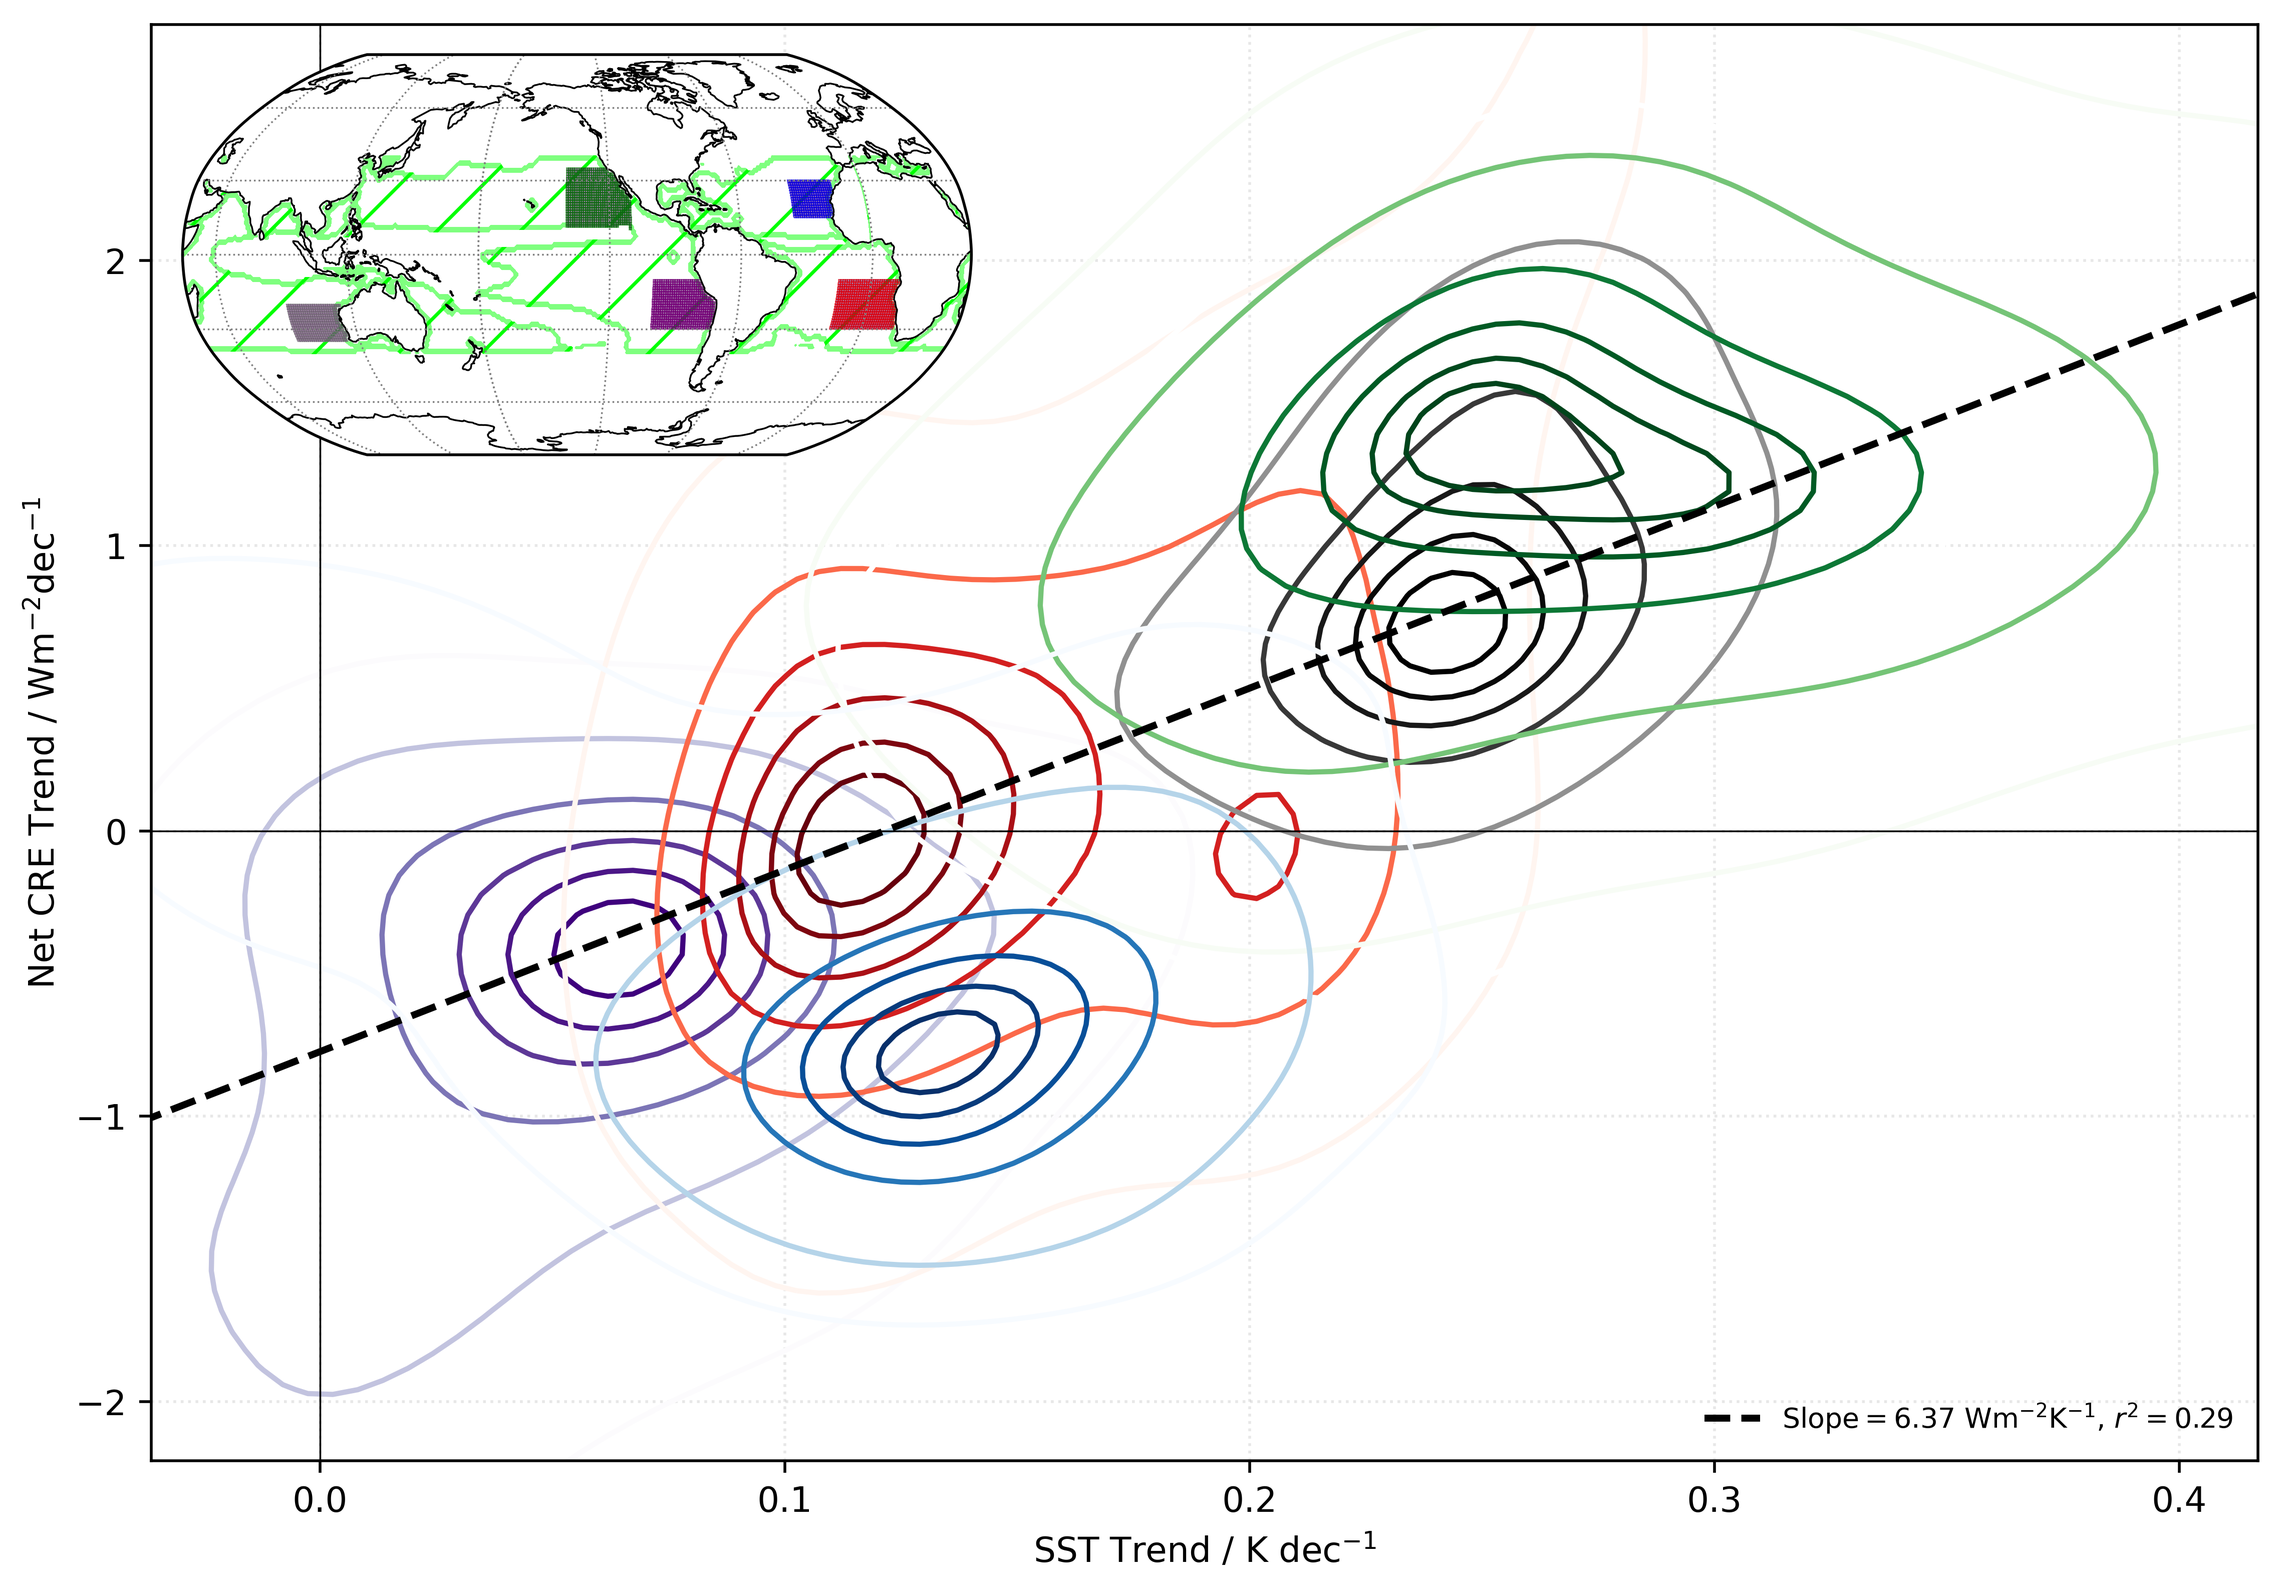
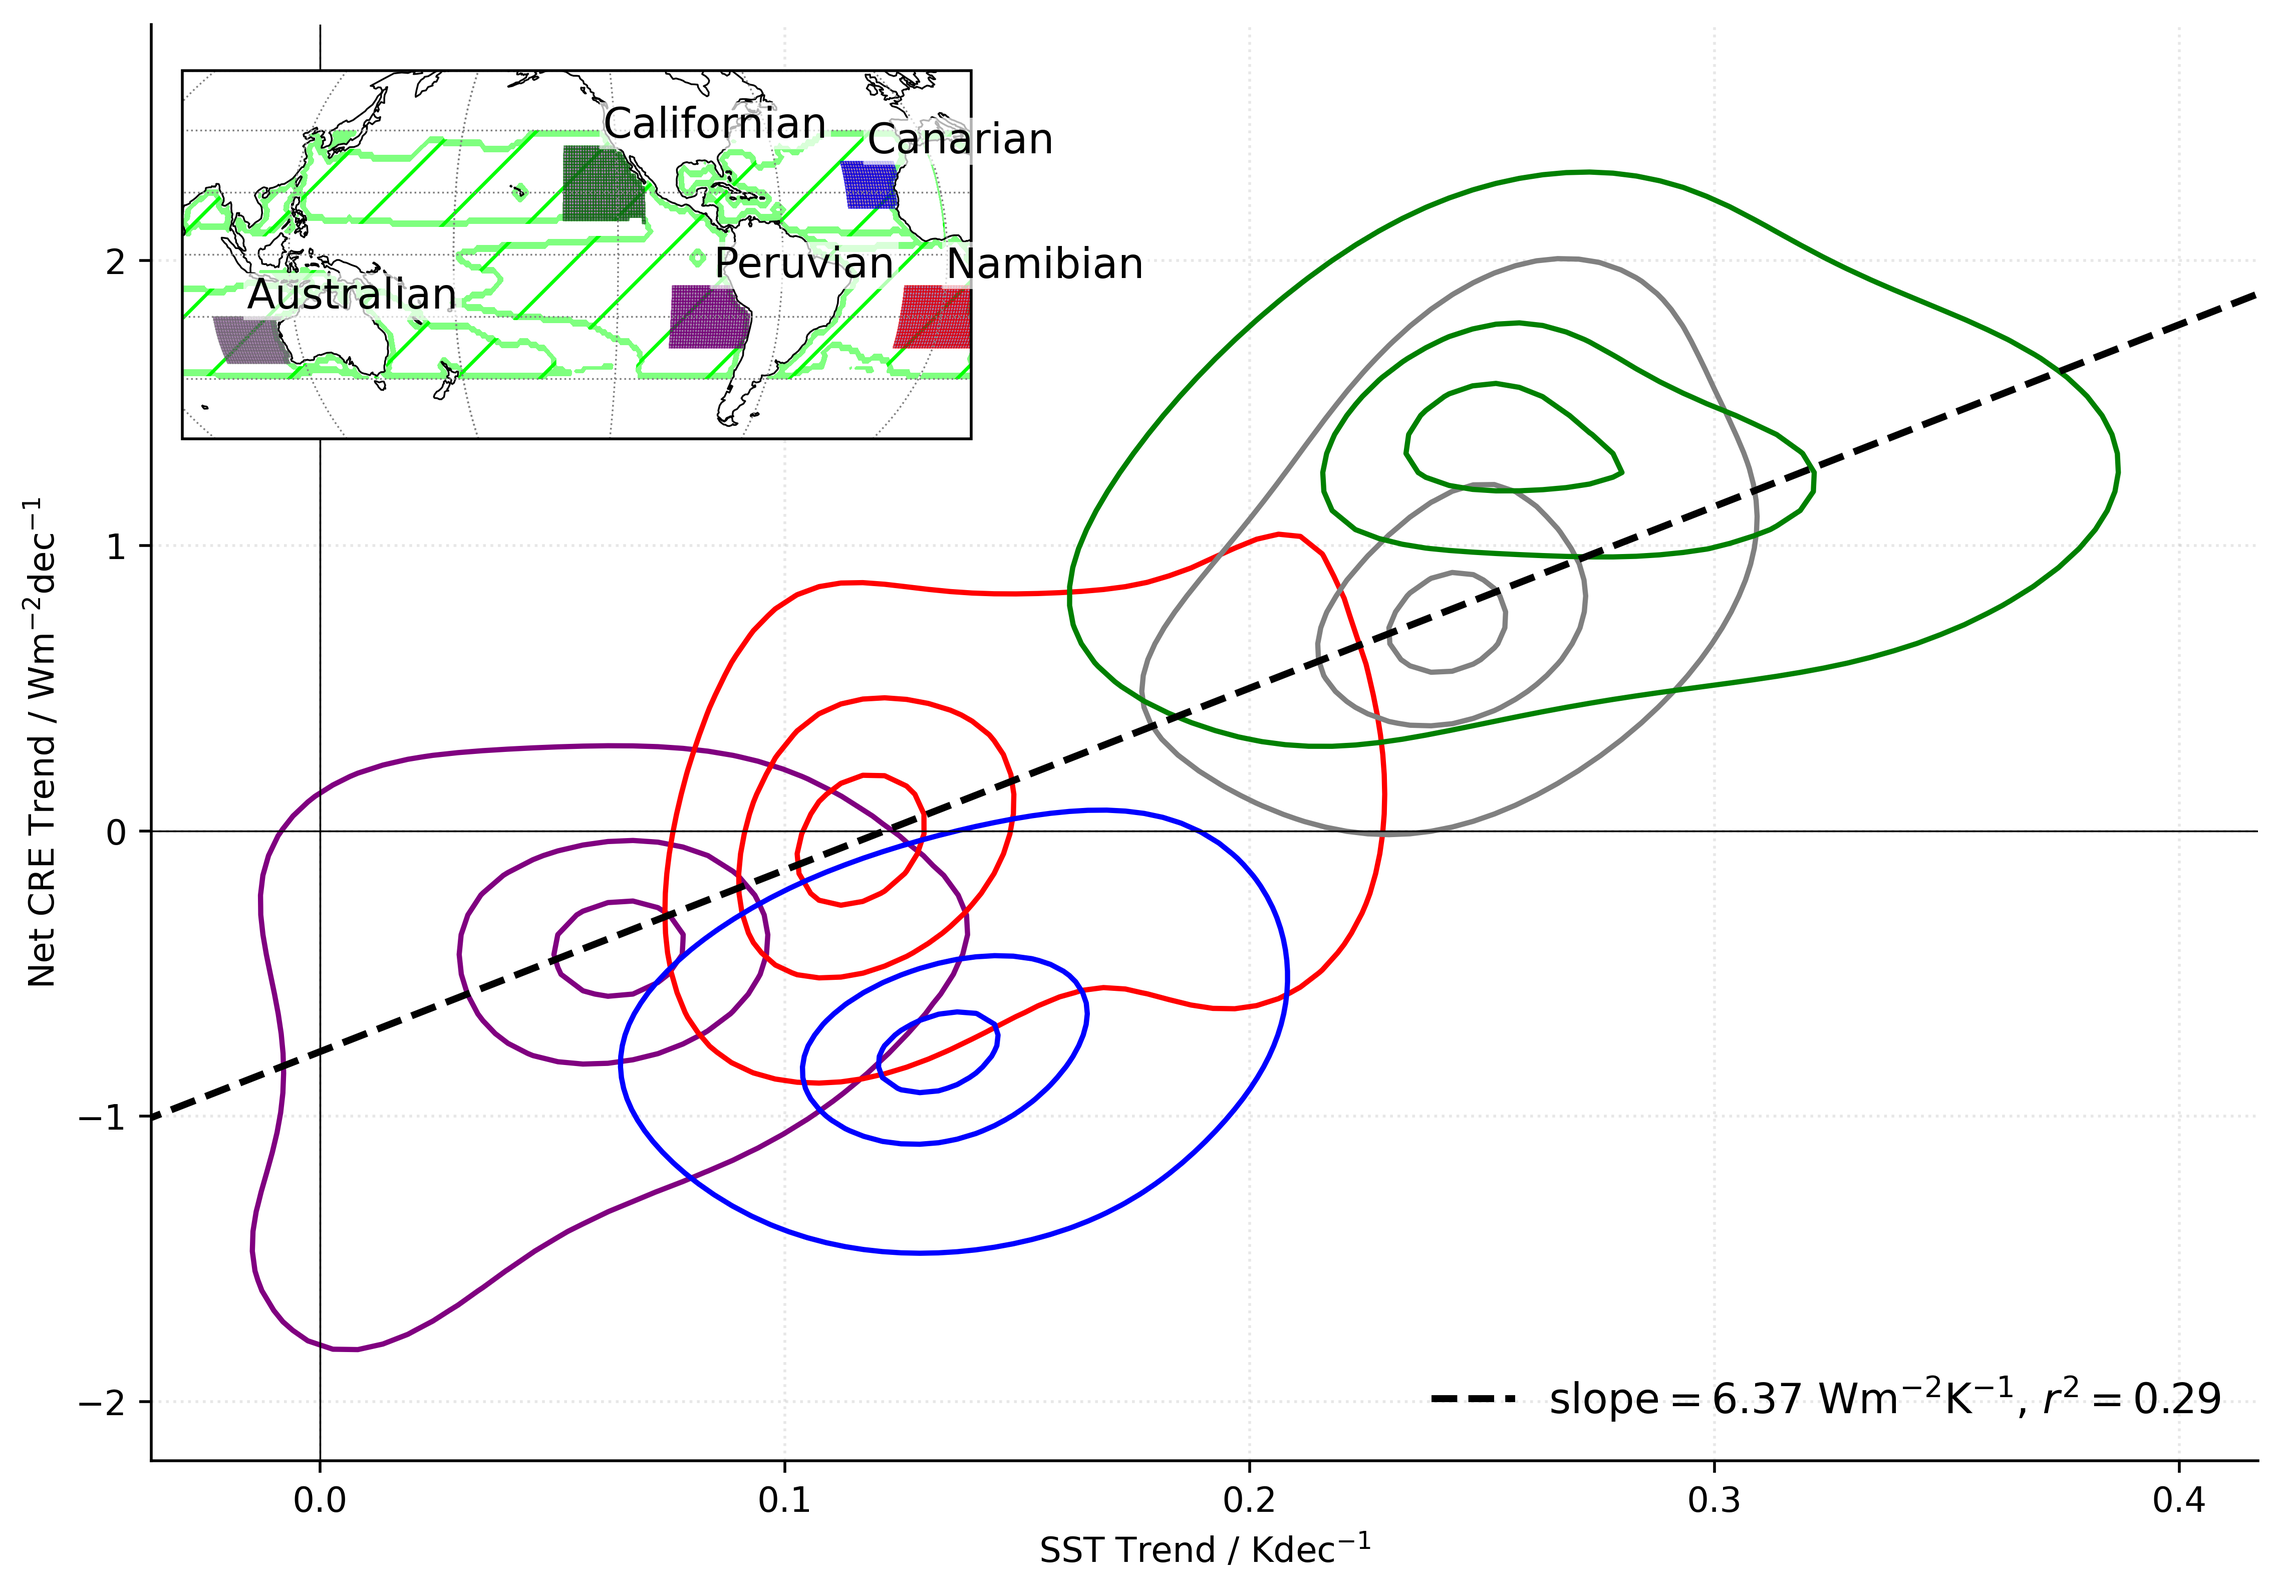
add stcu deck labels, make contours same alpha, reduce no. of contours, ...

diff --git a/make_figs/stcu.py b/make_figs/stcu.py
@@ -51,11 +51,11 @@ def regression(x, y):
 # define lat-lon boxes containing stcu decks
 stcu_deck_boxes = [
     # name, lat_min, lat_max, lon_min, lon_max, color, cmap
-    ("Peruvian deck", -30.0, -10.0, -100.0, -70.0, "purple", "Purples"),
-    ("Namibian deck", -30.0, -10.0, -15, 15, "red", "Reds"),
-    ("Australian deck", -35.0, -20.0, 90.0, 115.0, "gray", "Greys"),
-    ("Californian deck", 10.0, 35.0, -140.0, -110.0,  "green", "Greens"),
-    ("Canarian deck", 15.0, 30.0, -35.0, -15.0, "blue", "Blues"),
+    ("Peruvian", -30.0, -10.0, -100.0, -70.0, "purple"),
+    ("Namibian", -30.0, -10.0, -15, 15, "red"),
+    ("Australian", -35.0, -20.0, 90.0, 115.0, "gray"),
+    ("Californian", 10.0, 35.0, -140.0, -110.0,  "green"),
+    ("Canarian", 15.0, 30.0, -35.0, -15.0, "blue"),
 ]
 
 fig = plt.figure(figsize=(9, 12), constrained_layout=True)
@@ -76,7 +76,7 @@ ax.set_ylabel( "Net CRE Trend / Wm$^{-2}$dec$^{-1}$")
 # accumulate all pts for all-deck fit
 sst_all_boxes, cre_all_boxes = [], []
 
-for (_, lat_min, lat_max, lon_min, lon_max, _, cmap_name) in stcu_deck_boxes:
+for (_, lat_min, lat_max, lon_min, lon_max, color) in stcu_deck_boxes:
     # accumulate per-box for per-box fits
     sst_all_seasons, cre_all_seasons = [], []
 
@@ -94,10 +94,8 @@ for (_, lat_min, lat_max, lon_min, lon_max, _, cmap_name) in stcu_deck_boxes:
         sst_all_seasons.extend(sst_box)
         cre_all_seasons.extend(cre_box)
 
-    # KDE for all points in StCu region, over all seasons
-    cmap = plt.get_cmap(cmap_name)
-    
-    sns.kdeplot(x=sst_all_seasons, y=cre_all_seasons, cmap=cmap, levels=[0.5, 0.75, 0.9, 0.95, 0.975, 0.99], ax=ax)
+    # KDE for all points in StCu region, over all seasons    
+    sns.kdeplot(x=sst_all_seasons, y=cre_all_seasons, color=color, levels=[0.775, 0.95, 0.99], ax=ax)
     slope, intercept, r = regression(sst_all_seasons, cre_all_seasons)
 
 slope, intercept, r = regression(sst_all_boxes, cre_all_boxes)
@@ -152,7 +150,14 @@ map_ax.collections[-1:][0].set_linewidth(0.0)  # remove polygon edges
 plot_coasts_grid(map_ax)
 
 # draw filled patches and labels around stcu regions
-for _, lat_min, lat_max, lon_min, lon_max, color, _ in stcu_deck_boxes:
+for name, lat_min, lat_max, lon_min, lon_max, color in stcu_deck_boxes:
+    label_lon = lon_min + 0.5 * ((lon_max - lon_min))
+    label_lat = lat_max
+    map_ax.text(
+        label_lon, label_lat, name,
+        transform=ccrs.PlateCarree(), fontsize=12, ha="left", va="bottom",
+        bbox={"facecolor": "white", "edgecolor": "none", "alpha": 0.7, "pad": 1.0}, zorder=6,
+    )
 
     data_for_plot = ceres.net_cre.sel(season='ANN')
 
